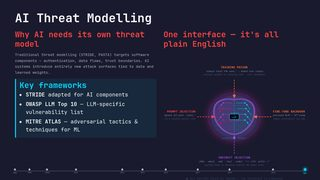
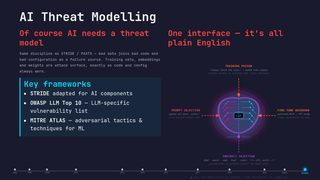
Reframe the AI Threat Modelling heading
"Why AI needs its own threat model" implied AI demands a new discipline,
which is the opposite of what the paragraph beneath it argues and of
where the rest of the section goes. It now reads "Of course AI needs a
threat model", with the existing tooling doing the work.

Simplify the paragraph while there: it made the same point twice, once
as bad data joining bad code and bad configuration, and again as
training sets and weights being attack surface. Merged into two
sentences, keeping the "exactly as code and config always were" ending
that carries the point.

diff --git a/index.html b/index.html
@@ -3659,9 +3659,9 @@
 
               <!-- LEFT: What & Why -->
               <div>
-                <h3 style="color:#ff4444;margin-bottom:12px;">Why AI needs its own threat model</h3>
+                <h3 style="color:#ff4444;margin-bottom:12px;">Of course AI needs a threat model</h3>
                 <p style="font-size:11pt;color:var(--muted-color);margin-bottom:14px;line-height:1.6;">
-                  Same discipline as STRIDE/PASTA — only now <em>bad data</em> joins <em>bad code</em> and <em>bad configuration</em> as a failure source. Training sets, embeddings, and learned weights are attack surface, just like code and config always have been.
+                  Same discipline as STRIDE / PASTA &mdash; <em>bad data</em> joins <em>bad code</em> and <em>bad configuration</em> as a failure source. Training sets, embeddings and weights are attack surface, exactly as code and config always were.
                 </p>
 
                 <div style="background:rgba(0,217,255,0.08);border-left:4px solid var(--primary-color);border-radius:4px;padding:10px 14px;">
